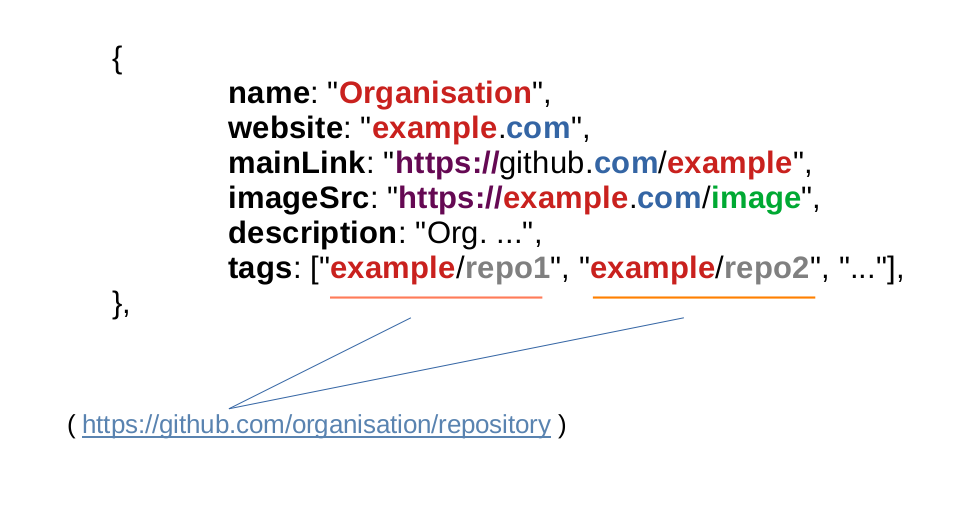
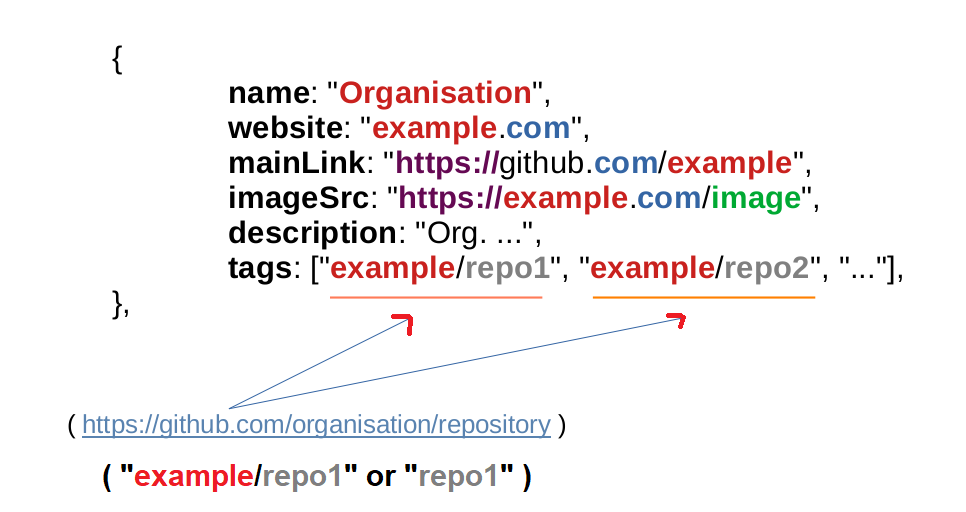
initial commit

Changed region(s): [[0.0932, 0.9062, 0.559, 0.9688], [0.4037, 0.5938, 0.4348, 0.6562], [0.6832, 0.5938, 0.7143, 0.625]]

diff --git a/src/components/OrgLists/ListOrgs.js b/src/components/OrgLists/ListOrgs.js
@@ -13,7 +13,7 @@ const orgList = [
       mainLink: "https://github.com/mongodb",
       imageSrc: "https://avatars.githubusercontent.com/u/45120?s=200&v=4",
       description: "MongoDB is a cross-platform document-oriented database program such as a NoSQL database program. MongoDB uses JSON-like documents with optional schemas.",
-      tags: [" mongodb/mongo", "mongodb/mongodb-atlas-cli", "mongodb/leafygreen-ui", "much more .."],
+      tags: ["mongo", "mongodb-atlas-cli", "leafygreen-ui", "much more .."],
     }
 ];
 

diff --git a/CONTRIBUTE.md b/CONTRIBUTE.md
@@ -1,3 +1,23 @@
+## Create an [new issue](https://github.com/stlajay/gitopenfirms/issues)  (easy and simpler)
+
+```bash
+    {
+      name: "Organisation",
+      website: "example.com",
+      mainLink: "https://github.com/example",
+      imageSrc: "https://example.com/image",
+      description: "Org. ...",
+      tags: ["internet", "technology", "open source"],
+    },
+```
+
+I'll add your script to the [ListOrgs.js](https://github.com/stlajay/gitopenfirms/blob/master/src/components/OrgLists/ListOrgs.js) file.
+
+
+
+**OR**
+
+
 ## FORK AND CLONE THIS REPOSITORY
 
 ```bash
